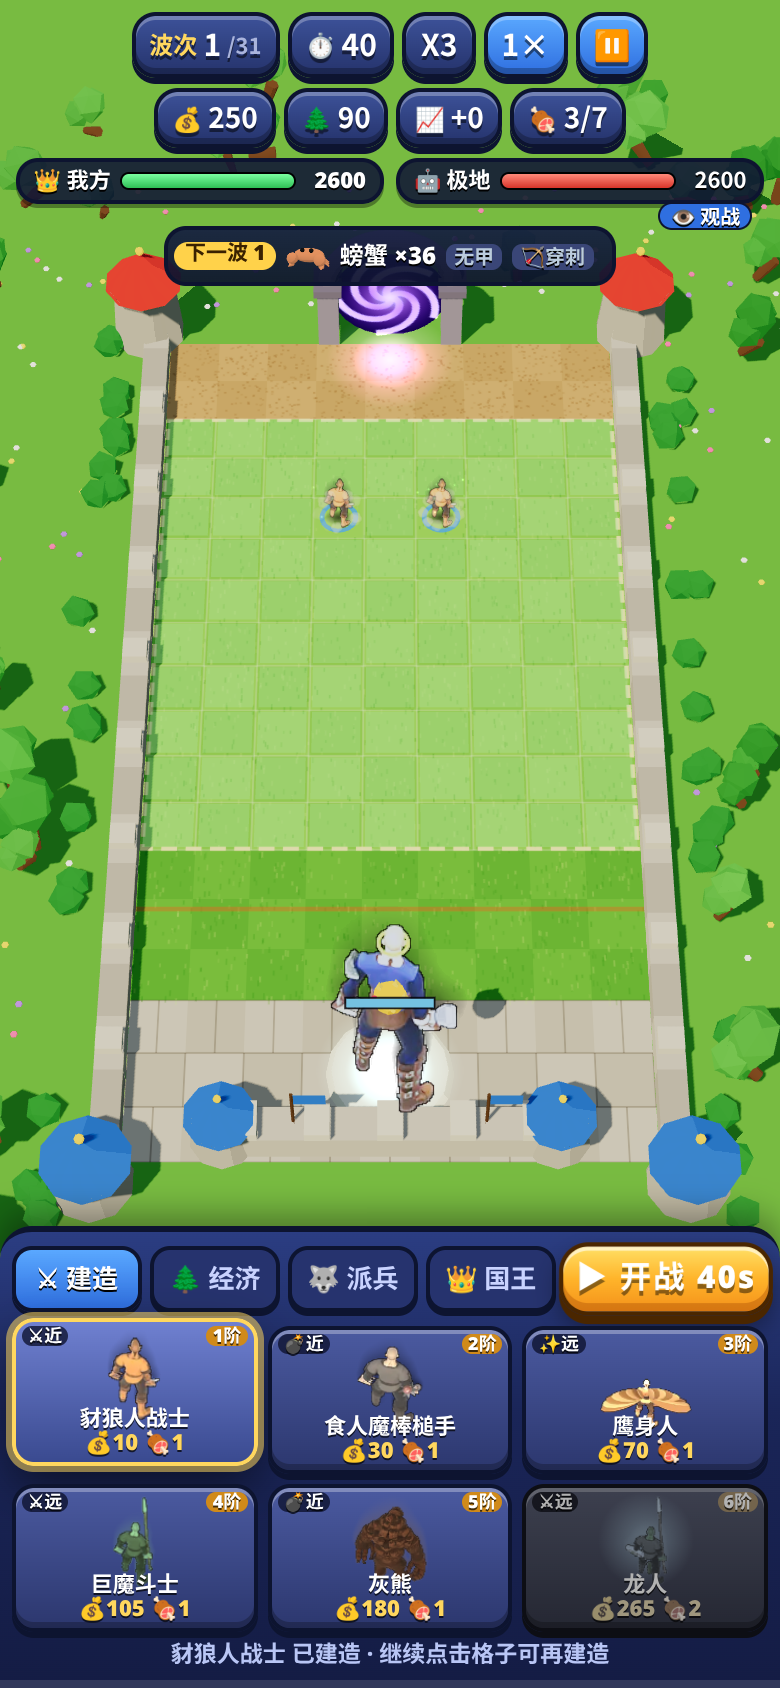
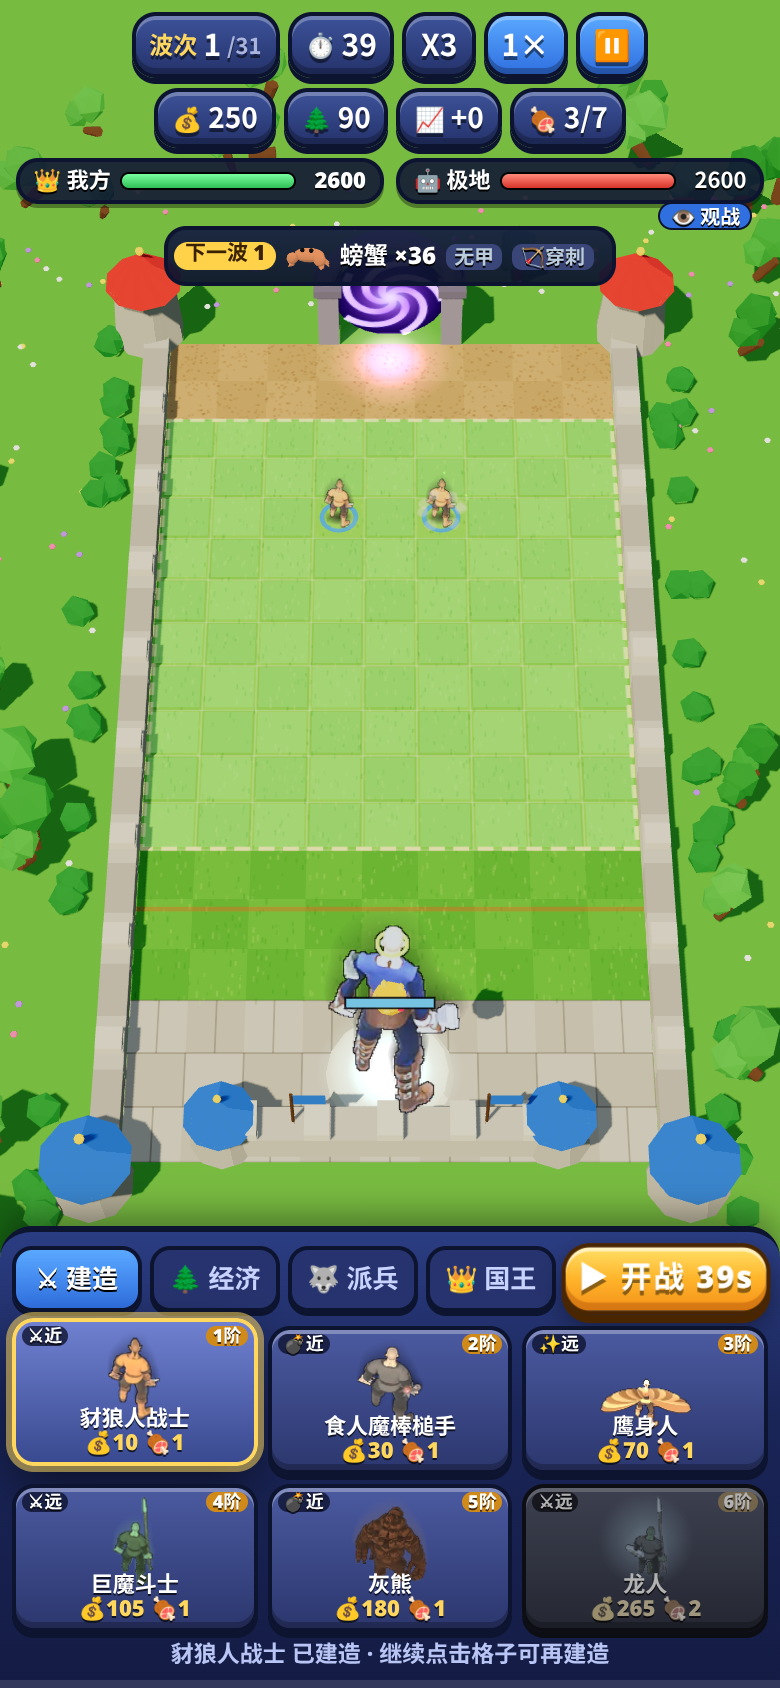
AI: charge food/slot cost in purchase scoring (less tier-1 spam); QA build timer configurable

diff --git a/test/qa_race.js b/test/qa_race.js
@@ -1,7 +1,7 @@
 // headless QA per race: 390x844 phone, race pick via UI, build via UI taps, then AI-assisted play for several waves.
 // usage: RACE=Beast MAXW=6 node test/qa_race.js   → shots/races/<race>_*.png, prints JSON summary
 const { chromium } = require('/workspace/weapon-brawl-test/node_modules/playwright-core');
-const RACE=process.env.RACE||'Beast',MAXW=+process.env.MAXW||6,MODE=process.env.MODE||'X3';const OUT='/workspace/legion-td/shots/races/';
+const BT=+process.env.BUILDT||10;const RACE=process.env.RACE||'Beast',MAXW=+process.env.MAXW||6,MODE=process.env.MODE||'X3';const OUT='/workspace/legion-td/shots/races/';
 const URL=`http://127.0.0.1:8765/index.html?debug&seed=11&mode=${MODE}`;
 (async()=>{const b=await chromium.launch({executablePath:'/usr/bin/google-chrome',args:['--use-angle=swiftshader','--enable-unsafe-swiftshader','--ignore-gpu-blocklist']});
  const ctx=await b.newContext({viewport:{width:390,height:844},deviceScaleFactor:2,isMobile:true,hasTouch:true});
@@ -23,7 +23,7 @@ const URL=`http://127.0.0.1:8765/index.html?debug&seed=11&mode=${MODE}`;
  let shotB=false,shotL=false;
  for(let i=0;i<900;i++){const s=await st();if(s.over||s.wave>MAXW)break;
    if(s.phase==='battle'&&s.wave>=3&&!shotB){await p.evaluate(()=>{__lt.G.speed=1;});await p.waitForTimeout(5000);await p.screenshot({path:OUT+RACE+'_3battle.png'});shotB=true;}
-   await p.evaluate(()=>{__lt.G.speed=4;const g=__lt.G.g;if(g.phase==='build'&&g.timer>3)g.timer=3;});
+   await p.evaluate((BT)=>{__lt.G.speed=4;const g=__lt.G.g;if(g.phase==="build"&&g.timer>BT)g.timer=BT;},BT);
    if(s.wave===MAXW&&s.phase==='battle'&&!shotL){await p.evaluate(()=>{__lt.G.speed=1;});await p.waitForTimeout(3500);await p.screenshot({path:OUT+RACE+'_4late.png'});shotL=true;}
    await p.waitForTimeout(400);}
  const s=await st();const fx=await p.evaluate(()=>{const o={};for(const L of __lt.G.g.lanes)for(const k in (L.fxc||{}))o[k]=(o[k]||0)+L.fxc[k];return o;});const ev=await p.evaluate(()=>__ev);

diff --git a/lt_core.js b/lt_core.js
@@ -333,8 +333,8 @@ const AI={think(g,p,dt){const A=g.ai||(g.ai=[{cd:0,w:-1},{cd:0,w:-1}]);const s=A
     const pw=d=>Math.sqrt(Math.max(1,d.hp)*((d.dmin+d.dmax)/2)/Math.max(0.3,d.cd))*(1+0.15*(d.fx||[]).length)*mm(d);
     const melee=L.units.filter(u=>!u.d.ranged).length,ranged=L.units.length-melee;const wantR=melee>=2&&ranged<melee*0.7;
     const opts=[];
-    for(const u of L.units)for(const to of (u.d.upgrades||[])){const nd=D.units[to];const c=upCost(u.d,nd);if(c>0&&c<=P.gold&&P.food+(nd.food||1)-(u.d.food||1)<=P.foodCap)opts.push({sc:(pw(nd)-pw(u.d))/c*(nd.ranged===wantR?1.1:1),u,to});}
-    for(const id of lines){const d=D.units[id];if(!d||d.gold>P.gold||P.food+(d.food||1)>P.foodCap||has({d},'mine'))continue;opts.push({sc:pw(d)/d.gold*(d.ranged===wantR?1.35:0.85)*(L.units.length<2?1.5:1),id});}
+    for(const u of L.units)for(const to of (u.d.upgrades||[])){const nd=D.units[to];const c=upCost(u.d,nd);if(c>0&&c<=P.gold&&P.food+(nd.food||1)-(u.d.food||1)<=P.foodCap)opts.push({sc:(pw(nd)-pw(u.d))/(c+12*Math.max(0,(nd.food||1)-(u.d.food||1)))*(nd.ranged===wantR?1.1:1),u,to});}
+    for(const id of lines){const d=D.units[id];if(!d||d.gold>P.gold||P.food+(d.food||1)>P.foodCap||has({d},'mine'))continue;opts.push({sc:pw(d)/(d.gold+12*(d.food||1)+18)*(d.ranged===wantR?1.35:0.85)*(L.units.length<2?1.5:1),id});}
     if(!opts.length)return;for(const o of opts)o.sc*=0.85+0.3*R();opts.sort((a,b)=>b.sc-a.sc);const best=opts[0];
     if(best.u)return upgrade(g,p,best.u.id,best.to);
     const id=best.id;const isR=D.units[id].ranged;
